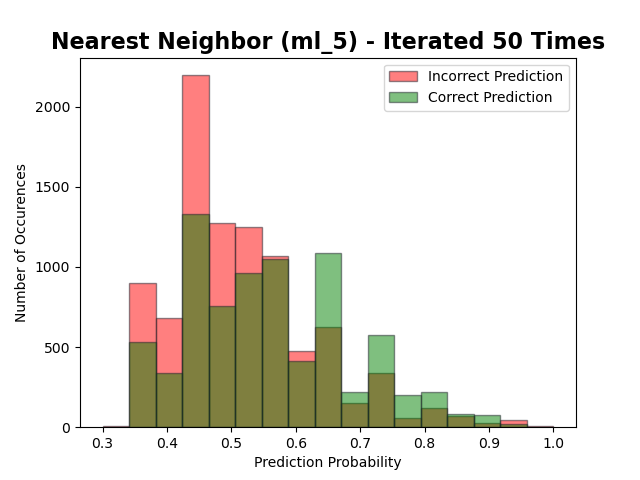
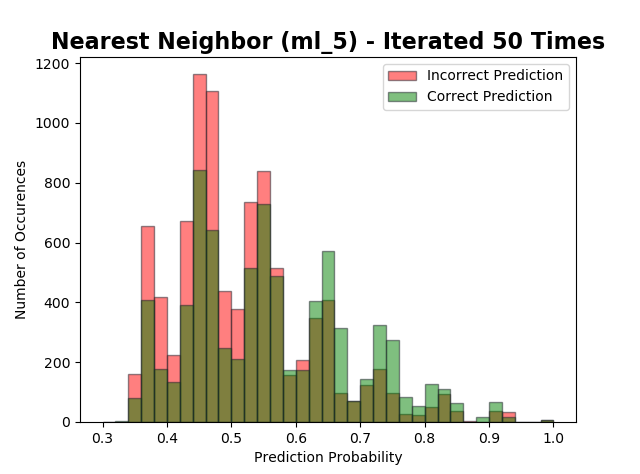
Plot Updates

diff --git a/ml_model_build_nearest_neighbor/nearest_neighbor_model_build.py b/ml_model_build_nearest_neighbor/nearest_neighbor_model_build.py
@@ -186,8 +186,8 @@ if pred_prob_plot_df10:
     fig = pred_proba_plot(ml_10_knn, 
                           x_10, 
                           y_10, 
-                          no_iter=50, 
-                          no_bins=18, 
+                          no_iter=5, 
+                          no_bins=36, 
                           x_min=0.3, 
                           classifier='Nearest Neighbor (ml_10)')
     if save_pred_prob_plot_df10:
@@ -198,7 +198,7 @@ if pred_prob_plot_df5:
                           x_5, 
                           y_5, 
                           no_iter=50, 
-                          no_bins=18, 
+                          no_bins=36, 
                           x_min=0.3, 
                           classifier='Nearest Neighbor (ml_5)')
     if save_pred_prob_plot_df10:

diff --git a/ml_model_build_support_vector_machine/support_vector_machine_model_build.py b/ml_model_build_support_vector_machine/support_vector_machine_model_build.py
@@ -189,7 +189,7 @@ if pred_prob_plot_df10:
                           x_10, 
                           y_10, 
                           no_iter=50, 
-                          no_bins=35, 
+                          no_bins=36, 
                           x_min=0.3, 
                           classifier='Support Vector Machine (ml_10)')
     if save_pred_prob_plot_df10:
@@ -200,7 +200,7 @@ if pred_prob_plot_df5:
                           x_5, 
                           y_5, 
                           no_iter=50, 
-                          no_bins=35, 
+                          no_bins=36, 
                           x_min=0.3, 
                           classifier='Support Vector Machine (ml_5)')
     if save_pred_prob_plot_df5:

diff --git a/README.md b/README.md
@@ -78,9 +78,9 @@ Along with cross-validation accuracy, confusion matrices were initially used to 
 
 <img src="https://raw.githubusercontent.com/mhaythornthwaite/Football_Prediction_Project/master/figures/all_conf_matrix.PNG" alt="Figure 2">
 
-<em>Figure 2. (a) Confusion matrix of the random forest model, (b) confusion matrix of the nearest neighbour model, (c) confusion matrix of the SVM model </em>
+<em>Figure 2. (a) Confusion matrix of the random forest model - 49.5%, (b) confusion matrix of the nearest neighbour model, 49.8%, (c) confusion matrix of the SVM model, 46.4% </em>
 
-Immediate inspection of these matrices shows all three models are performing poorly when predicting a draw. Both nearest neighbour and SVM are more incorrect that correct when predicting a draw and the random forest classifier only predicts a single draw from nearly 300 fixtures. To understand why this was occurring, the features as displayed in figure 1 were re-plotted to display only draws. It was hypothesised that equally matched teams would draw more often and therefore data clusters were expected around the dashed red line denoting equally matched teams. It is clear however, that in this database, containing results from 2019 and 2020, that the distribution of drawn matches appears somewhat randomly. Given the relative infrequency of draws (approx. 1 in 5 matches) and the random nature of the outcome in this database, itis no surprise the models do a poor job of predicting them.
+Immediate inspection of these matrices shows all three models are performing poorly when predicting a draw. Both nearest neighbour and SVM are more incorrect that correct when predicting a draw and the random forest classifier only predicts a single draw from nearly 300 fixtures. To understand why this was occurring, the features as displayed in figure 1 were re-plotted to display only draws. It was hypothesised that equally matched teams would draw more often and therefore data clusters were expected around the dashed red line denoting equally matched teams. It is clear however, that in this database containing results from 2019 and 2020, the distribution of drawn matches appears somewhat randomly. Given the relative infrequency of draws (approx. 1 in 5 matches) and the random nature of the outcome in this database, it is no surprise the models do a poor job of predicting them.
 
 <img src="https://raw.githubusercontent.com/mhaythornthwaite/Football_Prediction_Project/master/figures/average_10_games_only_draws.png" alt="Figure 3">
 
